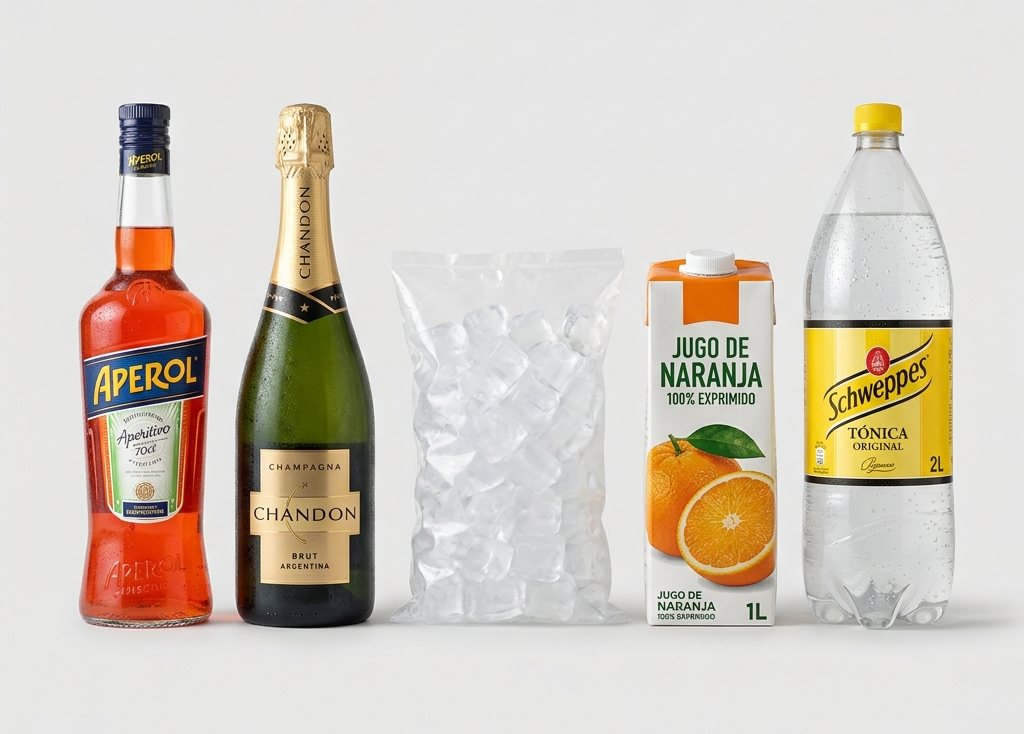
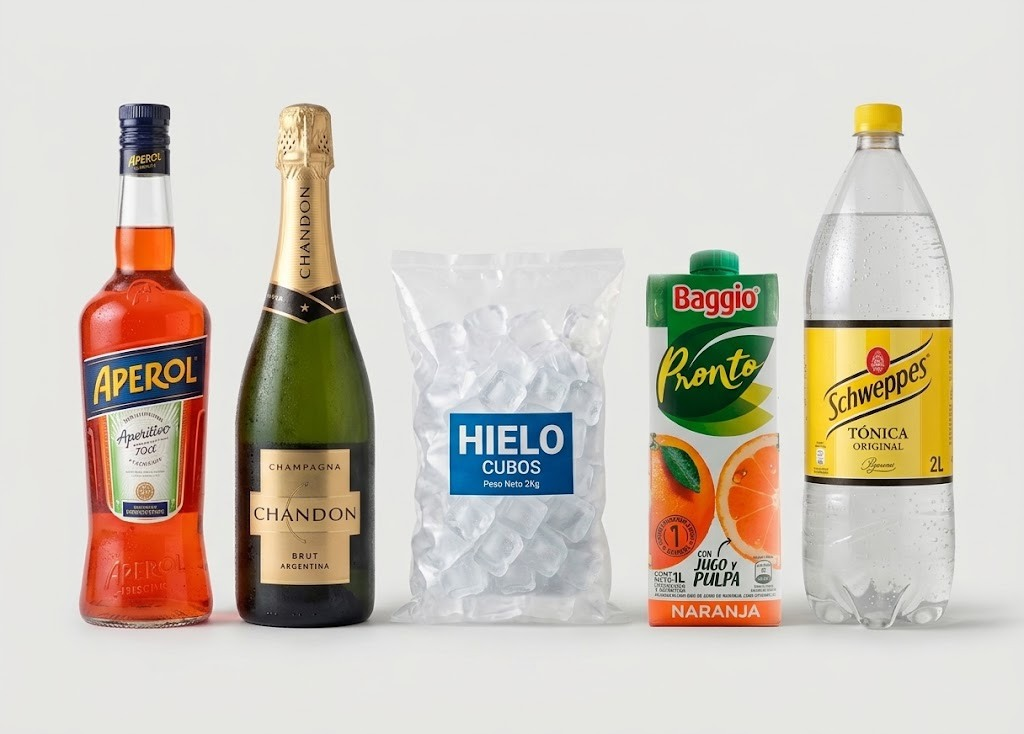
Corrige fotos de productos para que coincidan con los productos reales
Se regeneraron varias fotos usando como referencia fotos reales de cada
producto (buscadas en internet), en vez de generarlas solo por texto,
para que el diseno y el texto de las etiquetas sean fieles a la realidad.

- Fernet Branca: se unifico el diseno de la botella (color oscuro,
  cuello verde, etiqueta crema, texto FERNET-BRANCA legible) en las
  7 fotos que la muestran (ap1, ap2, ap3, y las 4 promos pr1-pr4).
  La promo "1lt sin hielo" (pr3) ya no muestra la botella dorada
  incorrecta.
- Bolsa de hielo: se unifico el diseno (bolsa con etiqueta azul
  "HIELO CUBOS") en pr1 y pr11 para que coincida con la foto real
  del producto "Hielo bolsa" del catalogo.
- Promo Smirnoff (ex "Smirloo"): se corrigio el nombre del producto
  y se reemplazaron los jugos genericos sin marca por jugo Baggio.
- Promo Spritz: se reemplazo el jugo generico por jugo Baggio.
- Promo Malibu: se reemplazo la Coca-Cola por jugo Baggio.
- Promo Red Label 1lt: la foto mostraba 5 latas de Speed en vez de 4
  (no coincidia con el texto "4 Speed 250ml"); ahora muestra 4.
- Cervezas: se corrigieron errores de tipeo en las etiquetas
  generadas por IA - Schneider decia "BIER" en vez de "BEER", y
  Heineken tenia texto ilegible/con errores ("ORIGINAAlH", "GUALITY").
  Tambien se corrigio el diseno de Amstel (texto inventado/gibberish).
- Se cambio el horario del local a "Abiertos las 24hs, todos los dias".

diff --git a/index.html b/index.html
@@ -429,7 +429,7 @@ button:active{transform:scale(.94)}
 
 <div class="foot" id="contacto">
   <p>La Plata, Buenos Aires &nbsp;&middot;&nbsp; <strong>JR Bebidas Dark Store</strong></p>
-  <p style="margin-top:4px">Lunes a S&aacute;bado de 15:00 a 21:00hs &middot; Env&iacute;os en el d&iacute;a</p>
+  <p style="margin-top:4px">Abiertos las 24hs, todos los d&iacute;as &middot; Env&iacute;os en el d&iacute;a</p>
   <p style="margin-top:4px"><a href="https://wa.me/5492216138637" style="text-decoration:none;color:#666">WhatsApp: 221 613-8637</a></p>
   <div class="paytrust">
     <span class="paychip">TRANSFERENCIA</span>
@@ -555,7 +555,7 @@ const prods=[
 {id:"pr2",cat:"promos",n:"Promo Fernet Branca 750",d:"Branca 750ml + 2 Cocas 2lt + bolsa de hielo",p:31000,pe:37200,tag:"promo",img:"images/productos/pr2-promo-fernet-branca-750.jpg"},
 {id:"pr3",cat:"promos",n:"Promo Fernet Branca 1lt sin hielo",d:"Branca 1lt + 2 Cocas 2lt",p:36000,pe:43200,tag:"promo",img:"images/productos/pr3-promo-fernet-branca-1l.jpg"},
 {id:"pr4",cat:"promos",n:"Promo Fernet Branca 750 sin hielo",d:"Branca 750ml + 2 Cocas 2lt",p:29000,pe:34800,tag:"promo",img:"images/productos/pr4-promo-fernet-branca-750-sinhielo.jpg"},
-{id:"pr5",cat:"promos",n:"Promo Smirloo",d:"Smirnoff saborizado + 2 jugos 1lt o Sprite 2lt",p:17000,pe:20400,tag:"promo",img:"images/productos/pr5-promo-smirloo.jpg"},
+{id:"pr5",cat:"promos",n:"Promo Smirnoff",d:"Smirnoff saborizado + 2 jugos 1lt o Sprite 2lt",p:17000,pe:20400,tag:"promo",img:"images/productos/pr5-promo-smirloo.jpg"},
 {id:"pr6",cat:"promos",n:"Promo Speed",d:"Smirnoff + 4 Speed 250ml",p:18000,pe:21600,tag:"promo",img:"images/productos/pr6-promo-speed.jpg"},
 {id:"pr7",cat:"promos",n:"Promo Sky",d:"Sky regular + 4 Speed 250ml",p:19500,pe:23400,tag:"promo",img:"images/productos/pr7-promo-sky.jpg"},
 {id:"pr8",cat:"promos",n:"Promo Sky Sab",d:"Sky Saborizado + 4 Speed 250ml",p:20500,pe:24600,tag:"promo",img:"images/productos/pr8-promo-sky-sab.jpg"},
